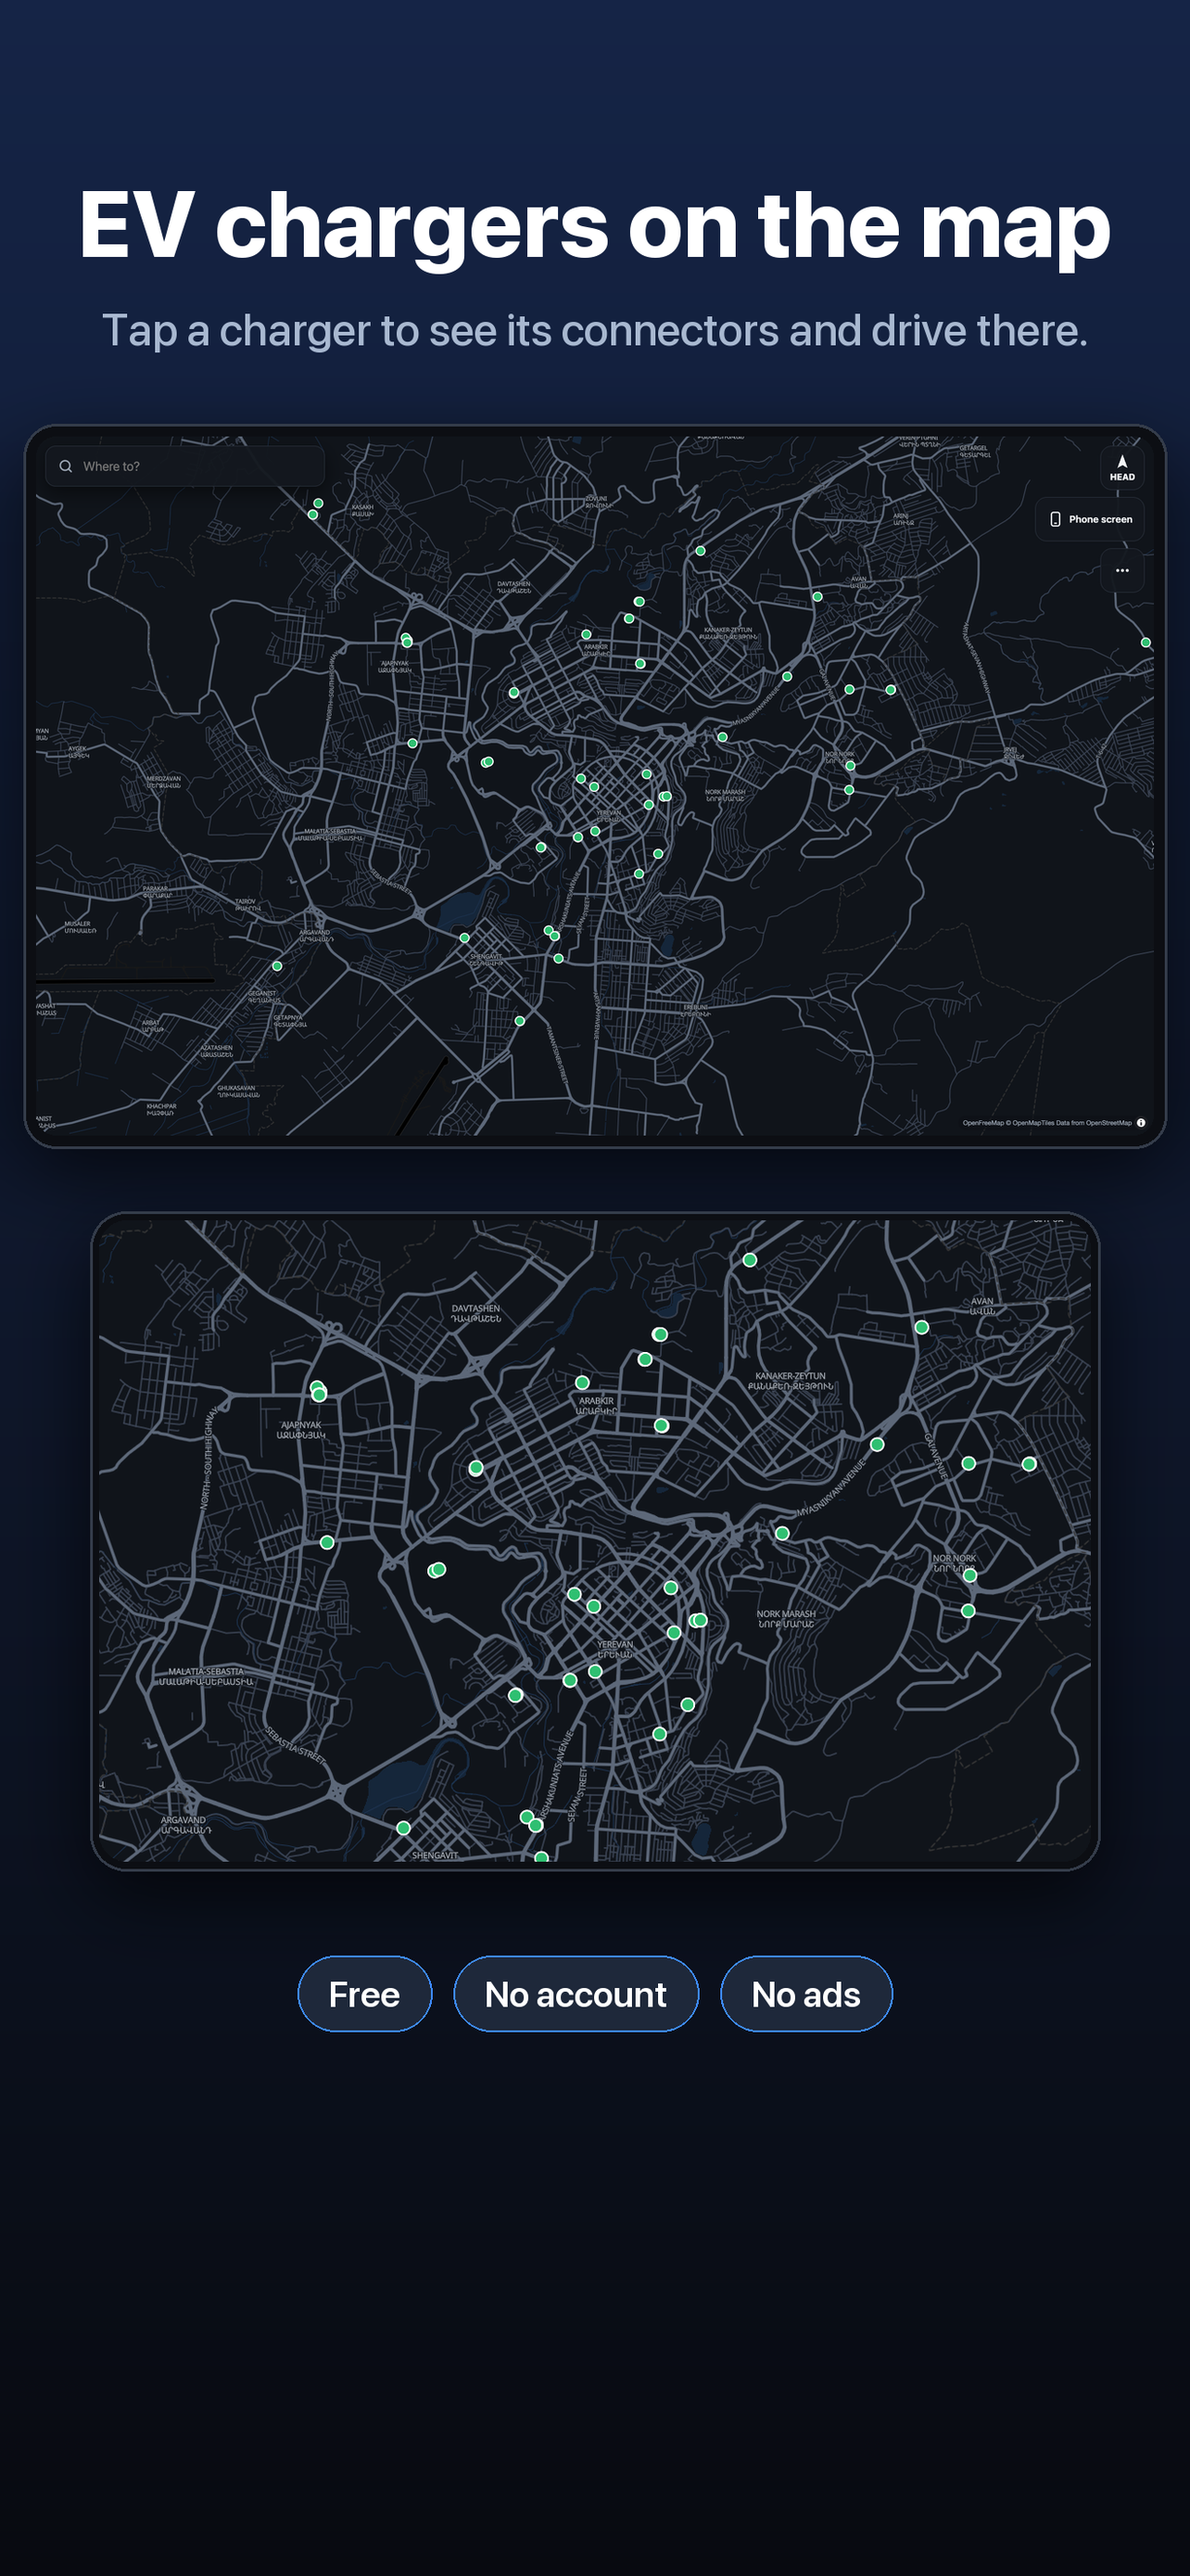
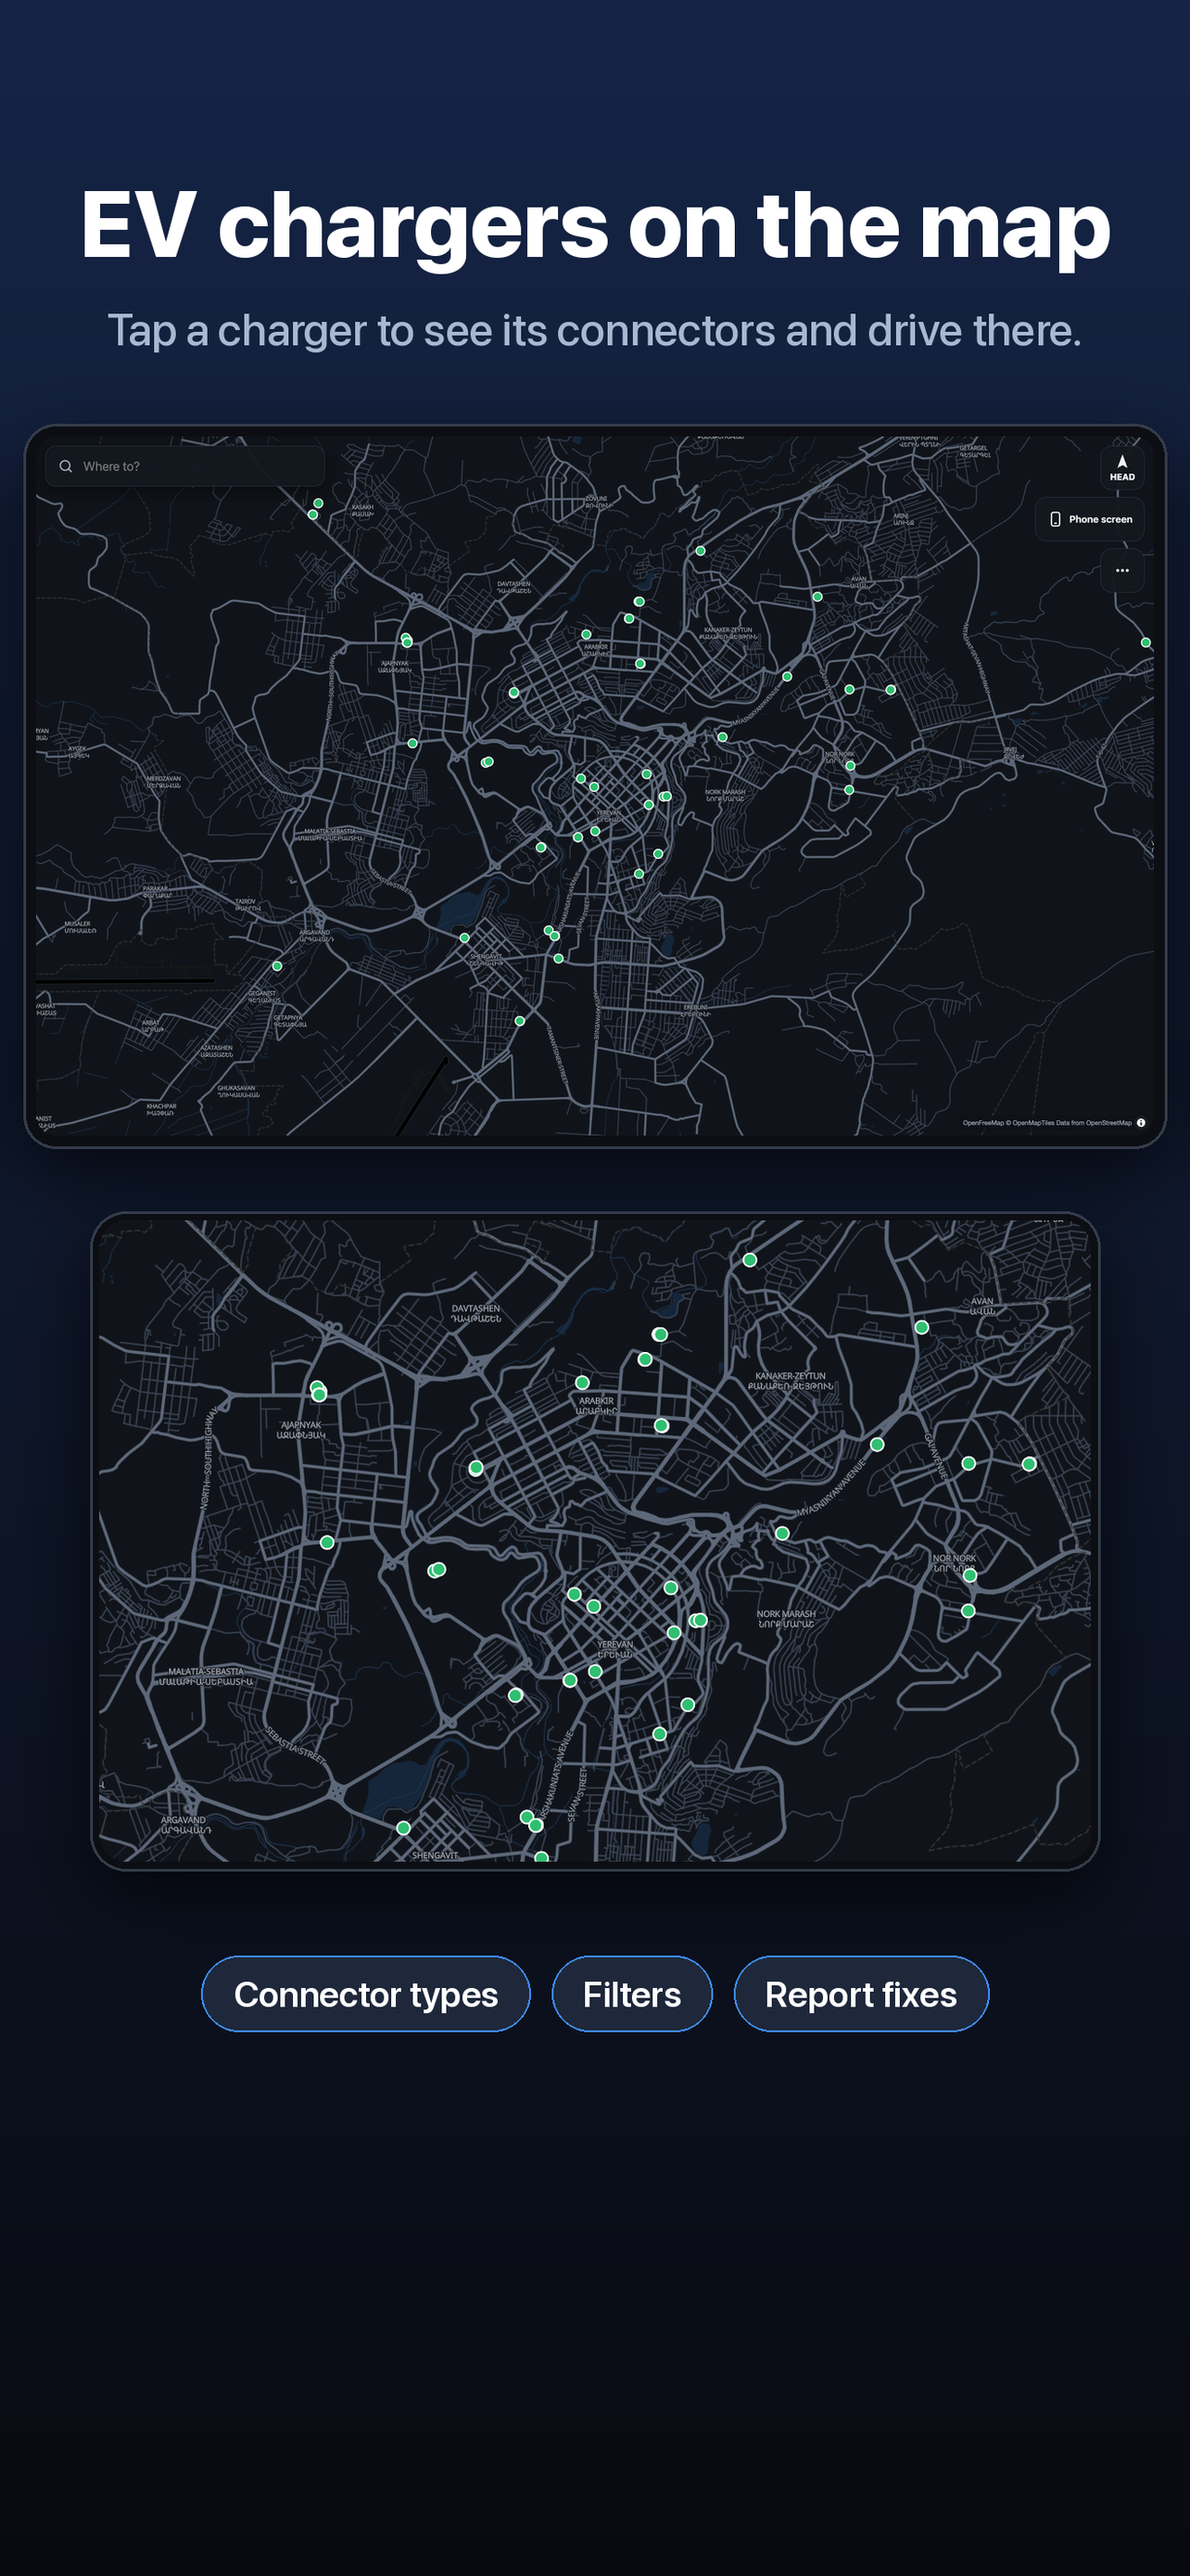
Coffee button retries loading instead of staying disabled; screenshots without price references; build 6

diff --git a/Sources/Tips.swift b/Sources/Tips.swift
@@ -36,10 +36,17 @@ final class Tips: ObservableObject {
     var displayPrice: String? { product?.displayPrice }
 
     func buyCoffee() async {
-        guard let product, !purchasing else { return }
+        guard !purchasing else { return }
         purchasing = true
         failure = nil
         defer { purchasing = false }
+        // The product may not have loaded at launch (offline, App Store busy): try again now
+        // rather than leaving the button dead.
+        if product == nil { await load() }
+        guard let product else {
+            failure = "The App Store isn't reachable right now. Please try again in a moment."
+            return
+        }
         do {
             switch try await product.purchase() {
             case .success(let verification):

diff --git a/Sources/TeslaNavApp.swift b/Sources/TeslaNavApp.swift
@@ -165,7 +165,7 @@ struct ContentView: View {
             .tint(Color(red: 1, green: 0.867, blue: 0))
             .foregroundStyle(.black)
             .controlSize(.large)
-            .disabled(tips.product == nil || tips.purchasing)
+            .disabled(tips.purchasing)
             if tips.thanked {
                 Label("Thank you for the coffee! ☕", systemImage: "heart.fill")
                     .font(.subheadline)

diff --git a/design/make_screenshots.py b/design/make_screenshots.py
@@ -105,7 +105,7 @@ img.save(f"{OUT}/4-mirror.png")
 
 car_slide("5-chargers", "chargers.png", "EV chargers on the map",
           "Tap a charger to see its connectors and drive there.",
-          [((380, 150, 1540, 900), 1100)], ["Free", "No account", "No ads"])
+          [((380, 150, 1540, 900), 1100)], ["Connector types", "Filters", "Report fixes"])
 
 # 6.5" copies (1284×2778): App Store Connect asks for this size too.
 os.makedirs("design/appstore-6.5", exist_ok=True)
